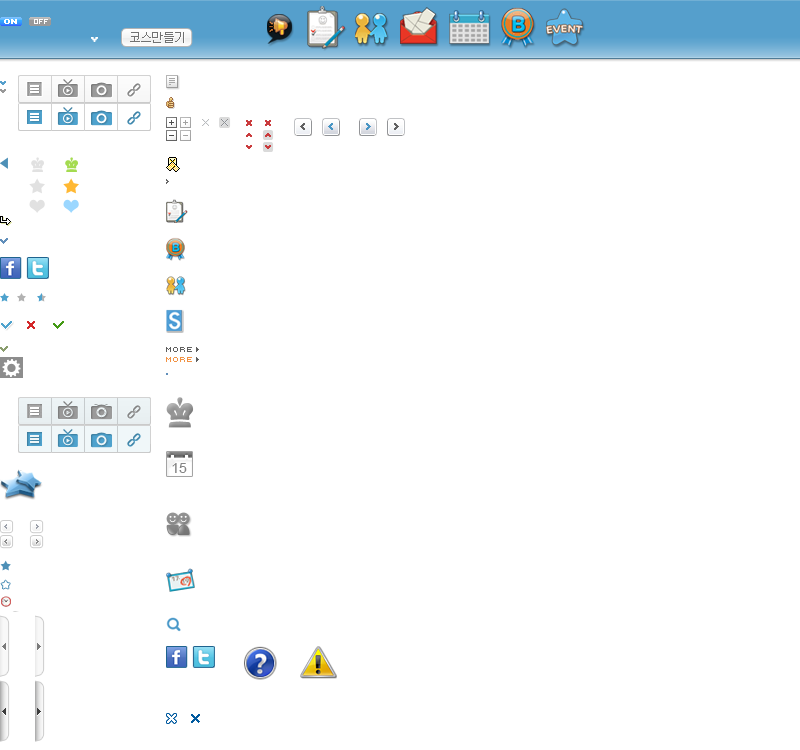
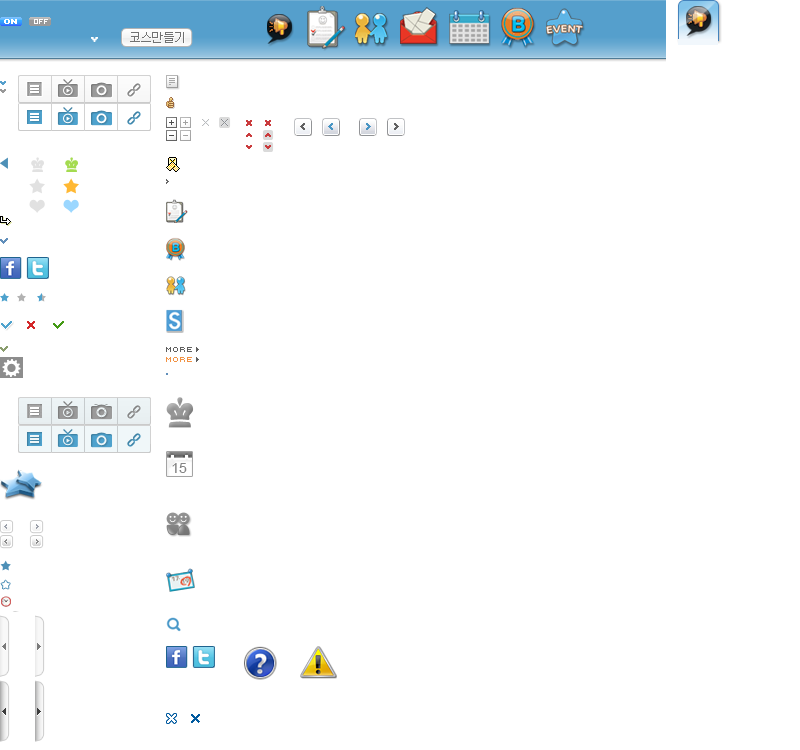
sera pop

Changed region(s): [[0.8125, 0.0, 1.0, 0.092]]

diff --git a/WebContent/sera/css/page.css b/WebContent/sera/css/page.css
@@ -65,7 +65,7 @@
 .gnb .util_menu .about {color: #333333; float: left; height: 19px; margin-right: 10px; padding-top: 4px}
 .gnb .util_menu .news {color: #333333; float: left; height: 19px; margin-right: 10px; padding-top: 4px}
 .gnb .util_menu .btn_login {float: left; height: 19px; width: 49px;}
-.hd_shadow {background: url("../images/top_bg_im.jpg") no-repeat scroll 0 0 transparent; width:1004px; height:91px; margin:0 auto}
+.hd_shadow {background: url("../images/top_bg_im.jpg") no-repeat scroll 0 0 transparent; width:1004px; height:91px; margin:0 auto; position:relative}
 .hd_shadow.bb {background: url("../images/top_bg_im_b.jpg") no-repeat scroll 0 0 transparent !important}
 .hd_shadow.bg2 {background: url("../images/top_bg_im2.jpg") no-repeat scroll 0 0 transparent !important}
 .hd_shadow.bg_join {background: url("../images/top_bg_im_out.jpg") no-repeat scroll 0 0 transparent !important}
@@ -91,6 +91,7 @@
 
 /* Icon in GNB */
 .icon_alarm a {background: url("../images/icon.png") no-repeat scroll -267px -6px; width:28px; height:45px; display:block}
+.icon_alarm.current {background: url("../images/icon.png") no-repeat scroll -676px 0; width:45px; height:39px; float:right}
 .icon_mycourse a {background: url("../images/icon.png") no-repeat scroll -307px -6px; width:40px; height:45px; display:block}
 .icon_friend a {background: url("../images/icon.png") no-repeat scroll -354px -6px; width:34px; height:45px; display:block}
 .icon_notes a {background: url("../images/icon.png") no-repeat scroll -400px -6px; width:39px; height:45px; display:block}
@@ -247,6 +248,8 @@ button.styl_bl {border: 1px solid #c5d0d6; background-color:#e0ecf3 !important; 
 .icon_close a:hover {background-position:-180px -129px}
 .icon_delete a { background: url("../images/icon.png") no-repeat scroll -200px -117px; width:11px; height:11px; display:block; padding:0; font-size:0}
 .icon_delete a:hover {background-position:-219px -117px}
+a .icon_delete { background: url("../images/icon.png") no-repeat scroll -200px -117px; width:11px; height:11px; display:block; padding:0; font-size:0}
+a .icon_delete:hover {background-position:-219px -117px}
 .icon_mentor {background: url("../images/icon.png") no-repeat scroll -29px -157px; width:16px; height:15px; display:block}
 .icon_mentor.current { background-position:-63px -157px}
 .icon_star {background: url("../images/icon.png") no-repeat scroll -29px -178px; width:16px; height:15px; display:block}
@@ -459,6 +462,7 @@ a .icon_bul_select:hover { background-position:0 -88px}
 .t_refe { font-size:11px; color:#999999; line-height:17px}
 .insert_text {color: #B6B6B6; font: bold 16px 'Tahoma'}
 .t_help { font-size:11px; line-height:14px; color:#666666}
+.t_date, .t_s11, .t_date a, .t_s11 a {color: #999897 !important; font-size: 11px;}
 
 /* Width */
 .w_auto { width:auto !important}

diff --git a/WebContent/sera/css/pop.css b/WebContent/sera/css/pop.css
@@ -30,3 +30,20 @@
 .btn_pop_r {background: url("../images/btn_pop_r.png") no-repeat scroll 100% 0; height:27px; padding:0 8px; line-height:31px; font-weight:bold; font-size:12px; color:#333333}
 .btn_close a {background: url("../images/icon.png") no-repeat scroll -166px -713px; height:11px; width:11px; margin-right:10px; float:right; display:block}
 .btn_close a:hover {background: url("../images/icon.png") no-repeat scroll -190px -713px}
+
+
+/*popup information*/
+.sera_tpop_section {margin:-45px -7px 0 0; position: absolute}
+.sera_tpop {background:#F1F7FC; border: 1px solid #4C87BE; font-family: dotum,Helvetica,sans-serif; -webkit-box-shadow: 1px 1px 1px #787878; -moz-box-shadow: 1px 1px 1px #787878; box-shadow: 1px 1px 1px #787878; width:230px; color:#666666; margin:38px 2px 0 0}
+.sera_tpop li {position:relative; clear:both; overflow:hidden;}
+.sera_tpop li:hover {display:block; background-color:#ffeed9; color:#454545;}
+.sera_tpop li:hover .btn_x {display:block; overflow: hidden; vertical-align:middle;}
+.sera_tpop li .btn_x {display:none}
+.sera_tpop li .info_ms_section {margin:0 10px; padding: 6px 0; overflow: hidden}
+.sera_tpop .info_ms_title {margin:10px 15px 5px; border-bottom: 1px solid #9f9f9f;} /* title */
+.sera_tpop .info_img {border: 1px solid #C7C7C7}
+.sera_tpop .info_img,.sera_tpop .info_list {float:left;}
+.sera_tpop .info_list {padding:0 0 0 5px; width:168px}
+.sera_tpop .more { border:none; background-color:#e0e0e0}
+.sera_tpop .more a { color:#608eba; text-align:center; display:block}
+.sera_tpop .more a:hover {color:#1a5083}

diff --git a/WebContent/css/black/layout.css b/WebContent/css/black/layout.css
@@ -380,7 +380,7 @@ li.comment_list:hover {background-color:#fffccd; cursor:pointer;}
 /*.srch_list li a:hover {display:block; background-color:#fffccd; color:#454545;}*/
 .srch_list li.sw_hover, .srch_list_nowid li a:hover {display:block; background-color:#ffeed9; color:#454545;}
 .srch_list .nav_sub_area {display: inline; float: left; position: relative; width: 410px;}
-.srch_list_nowid {z-index:100; position:absolute; margin-top: 1px; -webkit-box-shadow: 0px 2px 10px #505050; background:#FFF; border: 1px solid #c7c7c7; font-family: '돋움',dotum,Helvetica,sans-serif;} /* */
+.srch_list_nowid {z-index:100; position:absolute; margin-top: 1px; -webkit-box-shadow: 0px 2px 10px #505050; background:#FFF; border: 1px solid #c7c7c7; font-family: '돋움',dotum,Helvetica,sans-serif} 
 
 
 /* nav검색- 자동 완성어 list */
@@ -640,7 +640,7 @@ td.pic{width:85px}
 	background: url("../../images/btn_im_x_gr.gif") no-repeat scroll left top transparent; border: 0 none; cursor: pointer; height: 13px;
     padding: 0; position: relative; right: 3px; top:2px; width: 13px; float: right;
 } 
-a .btn_x:hover {background-color:#d5d5d5;}
+a .btn_x:hover {background-color:#8d8d8d;}
 /* td.form_col:hover .btn_x{display:inline;}
 td.form_col .btn_x {display:none;}
  */
